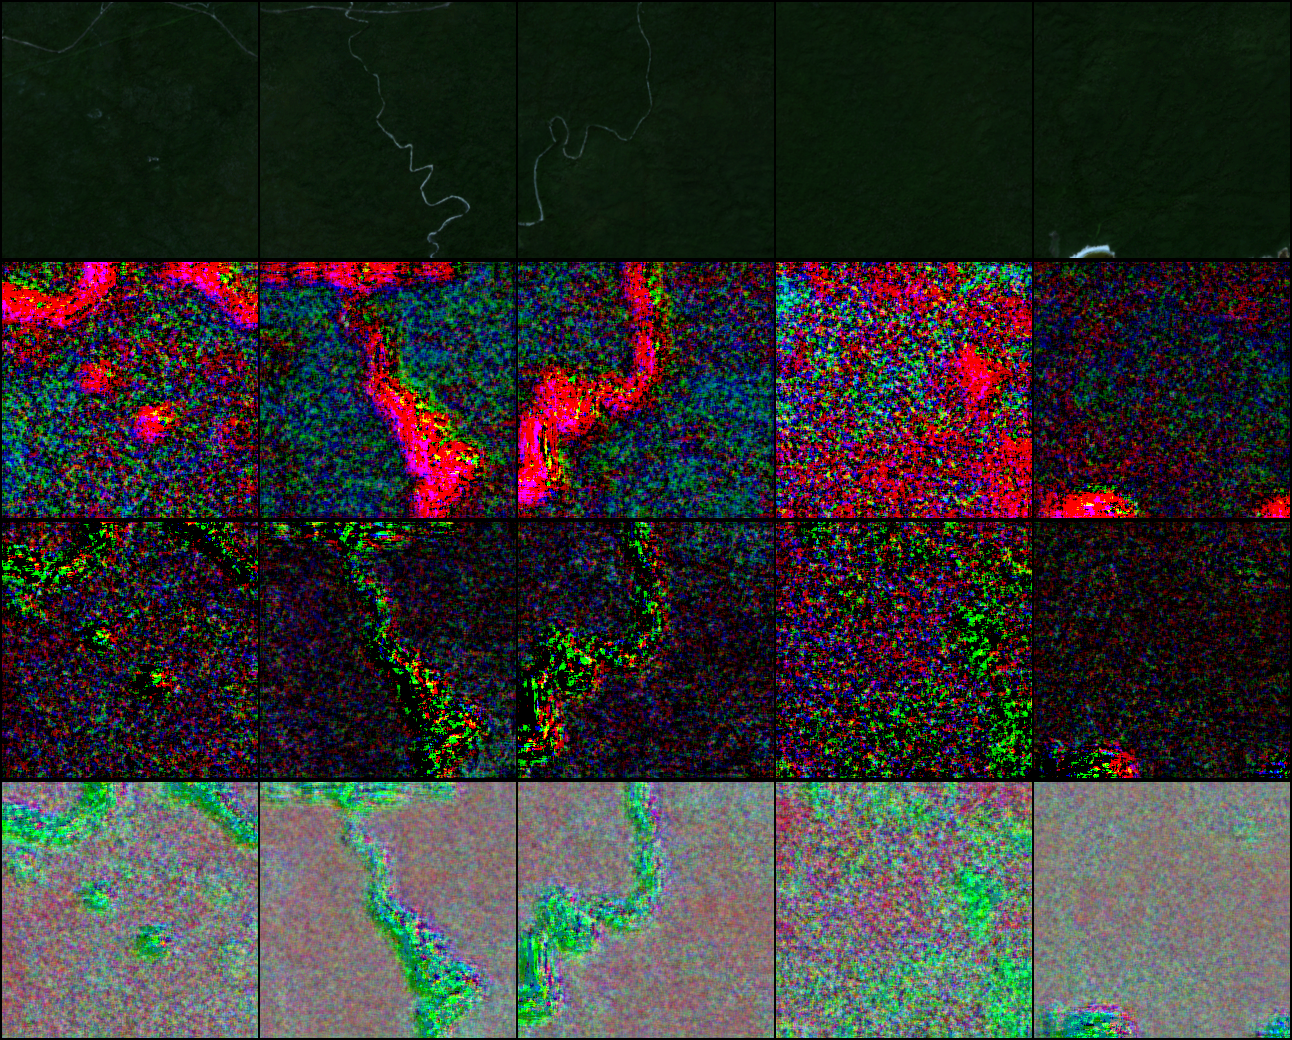
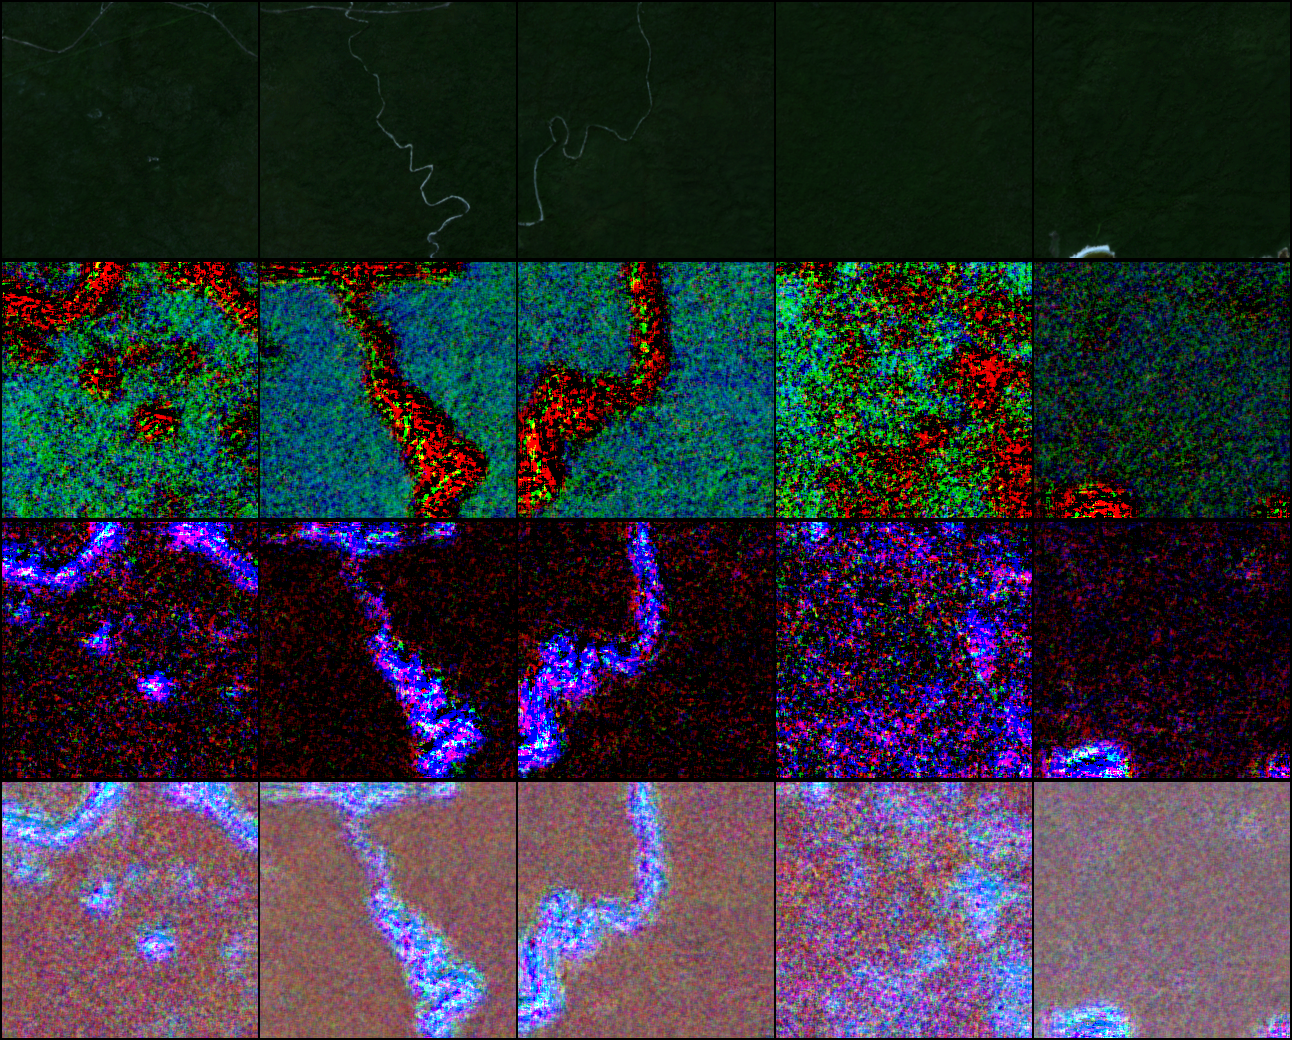
bug: layer 9 vs. 13 - now everywhere 13; added ttorch_datamodule inherit but did not change cutmix yet

diff --git a/ttorch_datamodule.py b/ttorch_datamodule.py
@@ -1,0 +1,86 @@
+import random
+import warnings
+
+import torch
+import torch.nn.functional as F
+import numpy as np
+
+from tlib import ttorch
+
+
+class DataModule(ttorch.data.images.DataModule):
+
+    def transform(self, x, y):
+        """
+        Transforms given x and y.
+
+        :param x: input data
+        :param y: target data
+        :return: tuple of transformed data (x, y)
+        """
+
+        # take only defined channels
+        if self.channels is not None:
+            x = x[self.channels]
+
+        # cutmix
+        if self.cutmix is not None and random.uniform(0, 1) <= self.cutmix and self.training:  # perform with given probability
+
+            # get second item
+            index2 = random.choice(range(len(self.files)))
+            batch2 = self.tgetitem(index2)
+            x2, y2 = ttorch.utils.get_batch(batch2)
+            if self.channels is not None:
+                x2 = x2[self.channels]
+
+            # combine items
+            edge = random.choice(['top', 'bottom', 'left', 'right'])
+            amount = random.uniform(0, 0.5)
+
+            x = ttorch.data.images.perform_cutmix(t1=x, t2=x2, edge=edge, amount=amount, clone=False)
+            y = y * (1 - amount) + y2 * amount
+
+        # x to torch
+        x = x.astype(np.single)
+        x = torch.tensor(x)
+
+        # x normalization
+        if self.x_normalization is not None:
+            x = (x - self.x_normalization[0]) / self.x_normalization[1]
+
+        if self.clip_range is not None:
+            x =  torch.clip(x, min=self.clip_range[0], max=self.clip_range[1])
+
+        # resize
+        if self.resize is not None:
+            x = self.resize(x)
+
+        # crop
+        if self.crop is not None:
+            x = self.crop(x)
+            if self.cutmix is not None:
+                print(self.cutmix)
+                warnings.warn('WARNING: You have defined CutMix as well as cropping. Note that CutMix is performed first.')
+        
+        # x rotation
+        if self.rotate and self.training:
+            x = ttorch.data.images.rotate_randomly_90(x)
+
+        # y to torch
+        y = torch.tensor(y)
+
+        # y normalization
+        if self.y_normalization is not None:
+            y = (y - self.y_normalization[0]) / self.y_normalization[1]
+
+        # y adapt to number of classes
+        if self.n_classes is not None:
+
+            if self.n_classes > 1:
+                y = int(y)
+                # one hot encoding only if multiple classes, else unsqueeze to shape[batch_size] --> shape[batch_size, 1]
+                y = F.one_hot(y, self.n_classes).float()
+            else:
+                y = torch.unsqueeze(y, -1).float()
+
+        return x, y

diff --git a/seprate_loss_training.py b/seprate_loss_training.py
@@ -42,6 +42,7 @@ from torchvision.models import resnet50, ResNet50_Weights
 import warnings
 import models.asos
 from tlib import tlearn, ttorch, tutils
+import ttorch_datamodule
 from tqdm import tqdm as tqdm_dataloader
 from unet import UNet
 
@@ -117,7 +118,7 @@ if experiment == 'horse2zebra':
     model.fc.register_forward_hook(layer_hook(hook_dict, 'fc'))
 
 elif experiment in ['anthroprotect', 'mapinwild']:
-    model.classifier[13].register_forward_hook(layer_hook(hook_dict, 9))
+    model.classifier[13].register_forward_hook(layer_hook(hook_dict, 13))
 
 
 
@@ -180,7 +181,7 @@ elif experiment in ['anthroprotect', 'mapinwild']:
         file_infos_df = file_infos_df[file_infos_df['subset'] == True]
         #file_infos_df = file_infos_df[file_infos_df['season'] == 'summer']
 
-    datamodule = ttorch.data.images.DataModule(
+    datamodule = ttorch_datamodule.DataModule(
         file_infos_df=file_infos_df,
         folder=data_folder_tiles,
 

diff --git a/cyclegan.py b/cyclegan.py
@@ -5,6 +5,7 @@ import torch
 import pandas as pd
 import sys
 import random
+import ttorch_datamodule
 
 
 class ReplayBuffer:
@@ -259,7 +260,7 @@ if experiment == 'horse2zebra':
     model.fc.register_forward_hook(layer_hook(hook_dict, 'fc'))
 
 elif experiment in ['anthroprotect', 'mapinwild']:
-    model.classifier[13].register_forward_hook(layer_hook(hook_dict, 9))
+    model.classifier[13].register_forward_hook(layer_hook(hook_dict, 13))
     model.eval()
 
 
@@ -270,7 +271,7 @@ if experiment == 'mapinwild':
     file_infos_df = file_infos_df[file_infos_df['subset'] == True]
     #file_infos_df = file_infos_df[file_infos_df['season'] == 'summer']
 
-datamodule = ttorch.data.images.DataModule(
+datamodule = ttorch_datamodule.DataModule(
     file_infos_df=file_infos_df,
     folder=data_folder_tiles,
 

diff --git a/gen_min_loss.py b/gen_min_loss.py
@@ -91,7 +91,7 @@ class Min_Generator_Loss:
     
     def Act_min(self):
         #activation = self.hook_dict['fc'][0][340]
-        activation = self.hook_dict[9][0][0]
+        activation = self.hook_dict[13][0][0]
         sum_actmin_loss =self.identity_norm(activation, torch.zeros_like(activation))
         return sum_actmin_loss
     

diff --git a/gen_max_loss.py b/gen_max_loss.py
@@ -96,7 +96,7 @@ class Max_Generator_Loss:
     
     def Act_max(self):
         #activation = self.hook_dict['fc'][0][340]
-        activation = self.hook_dict[9][0][0]
+        activation = self.hook_dict[13][0][0]
         sum_actmax_loss =self.identity_norm(activation, torch.ones_like(activation))
         return sum_actmax_loss
     
